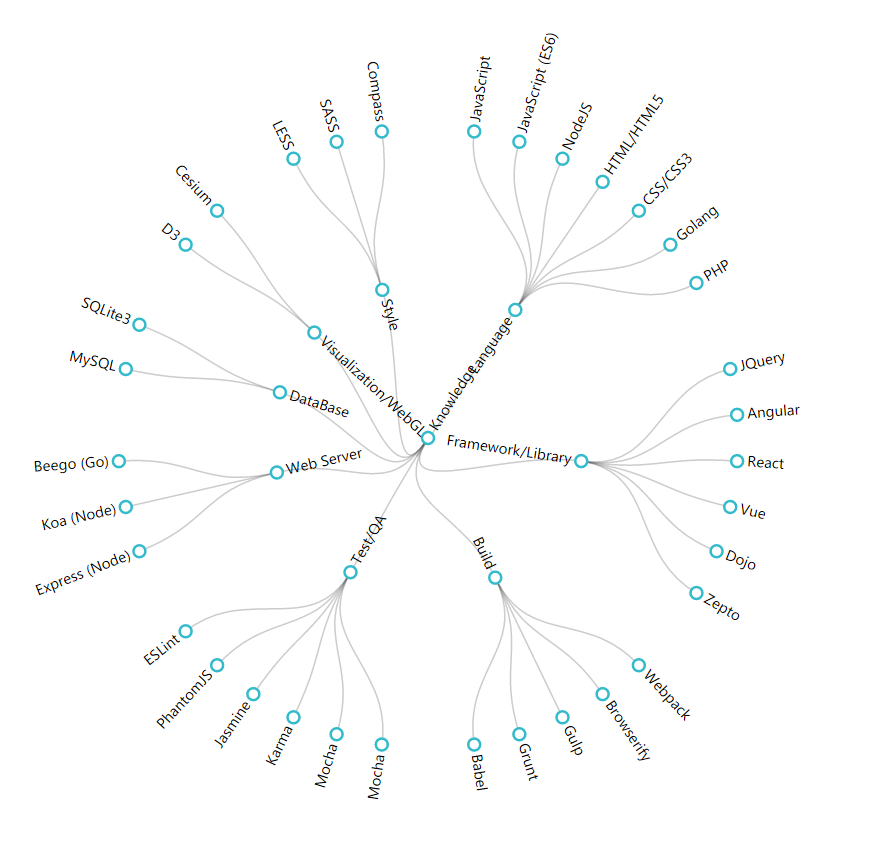
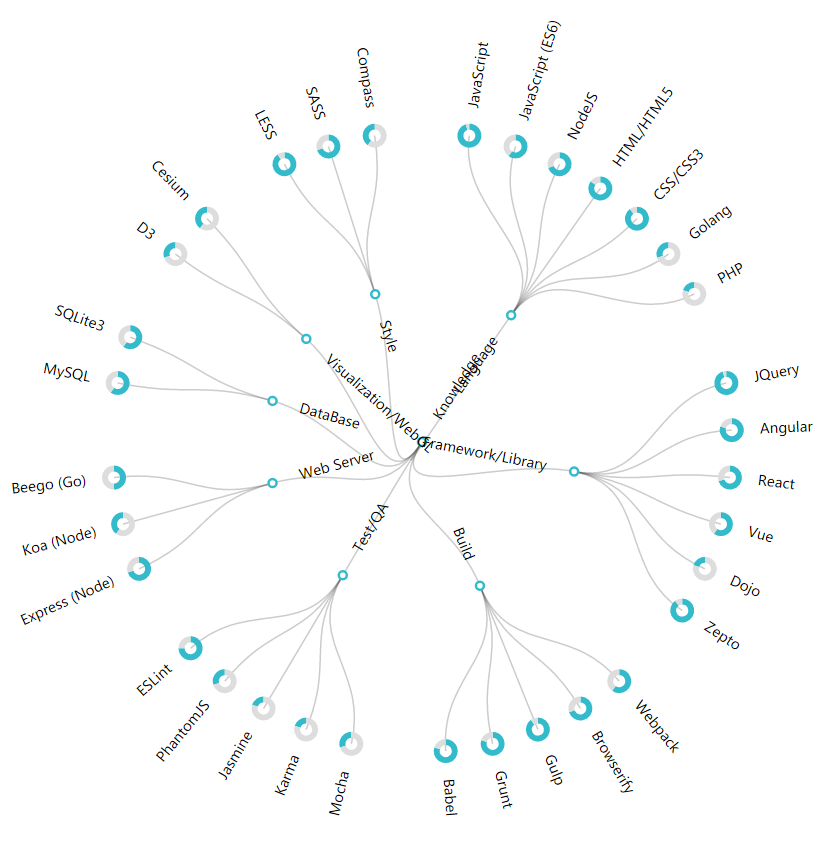
Add proficiency pie chart for the nodes

diff --git a/js/tree.js b/js/tree.js
@@ -1,16 +1,19 @@
+var r = 510,
+  r2 = r * 2,
+  l = 400,
+  pr = 24;
+
 function drawTree(data) {
+  var iterator = createIterator();
+  iterator(data);
   var root = d3.hierarchy(data);
-  var r = 510,
-    r2 = r * 2,
-    l = 400,
-    pr = 6;
   var svg = d3.select('#container')
     .append('svg')
     .attr('width', r2).attr('height', r2)
     .append('g')
     .attr('transform', 'translate(' + r + ',' + r + ')');
   var tree = d3.cluster();
-  console.log(root)
+
   tree.size([360, l - 90])
     .separation(function (a, b) {
       return (a.parent == b.parent ? 1 : 2) / a.depth;
@@ -27,7 +30,6 @@ function drawTree(data) {
         ' ' + project(d.parent.x, (d.y + d.parent.y) / 2),
         ' ' + project(d.parent.x, d.parent.y)
       ].join('');
-      console.log(attr);
       return attr;
     });
 
@@ -39,7 +41,8 @@ function drawTree(data) {
       return 'translate(' + project(d.x, d.y) + ')';
     });
 
-  node.append('circle').attr('r', pr);
+  // node.append('circle').attr('r', pr);
+  drawPie(node);
 
   node.append('text')
     .attr('dy', '.31em')
@@ -57,8 +60,59 @@ function drawTree(data) {
     });
 }
 
+function drawPie(node) {
+  var pieNode = node.filter(function (d) {
+    return ~~d.data.proficiency;
+  }).append('g');
+  var arc = d3.arc().innerRadius(6).outerRadius(pr / 2);
+  var pie = d3.pie();
+
+  pieNode.selectAll('path')
+    .data(function (d) {
+      var proficiency = typeof d.data.proficiency === 'undefined' ?
+        0 : d.data.proficiency;
+      return pie([proficiency, 100 - proficiency]);
+    })
+    .enter().append('path')
+    .attr('d', arc)
+    .attr('fill', function (d, i) {
+      return i ? '#ddd' : '#3bc';
+    })
+
+  node.filter(function (d) {
+    return !d.data.proficiency;
+  }).append('circle').attr('r', 4);
+}
+
 function project(x, y) {
   var angle = (x - 90) / 180 * Math.PI,
     radius = y;
   return [radius * Math.cos(angle), radius * Math.sin(angle)];
+}
+
+// set depth & total depth
+function createIterator() {
+  var totalDepth = 0;
+  var running = true;
+  var ancestor;
+
+  function iterator(data, depth) {
+    depth = depth || 0;
+    totalDepth = totalDepth < depth ? depth : totalDepth;
+    if (!depth) {
+      ancestor = data;
+    }
+    if (ancestor) {
+      ancestor.totalDepth = totalDepth;
+    }
+    data.depth = depth;
+    if (data.children && data.children.length) {
+      var len = data.children.length;
+      for (var i = 0; i < len; i++) {
+        iterator(data.children[i], depth + 1);
+      }
+    }
+  };
+
+  return iterator;
 }
